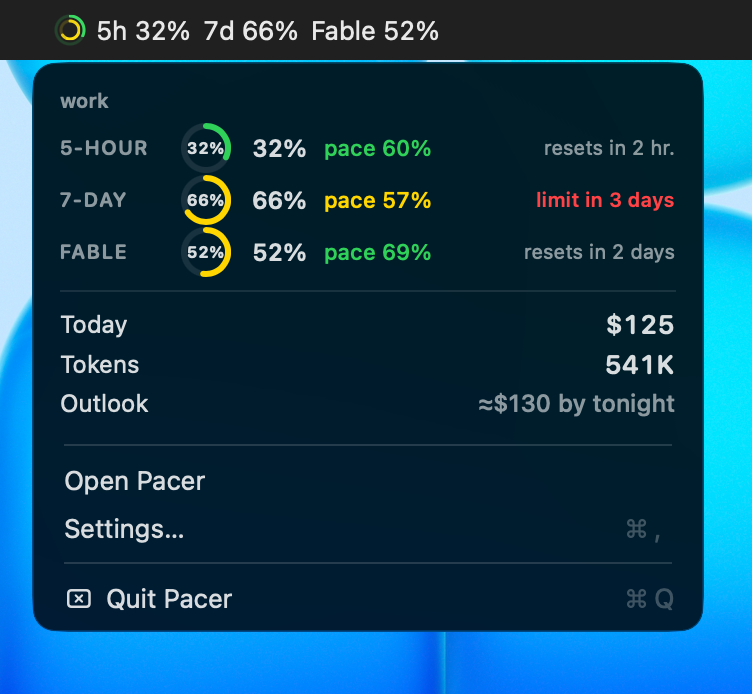
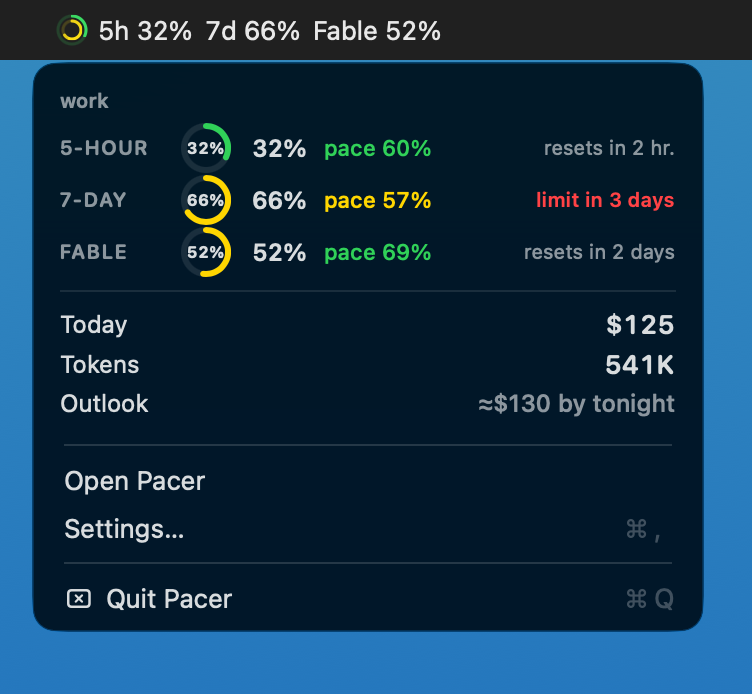
Deterministic menu bar screenshots: compare only Pacer's windows, pin the clock, own the wallpaper (#166) (#206)
* Deterministic menu bar screenshots: compare only Pacer's windows, pin the clock, own the wallpaper (#166)

* docs: regenerate README screenshots

Rendered by .github/workflows/screenshots.yml (run 37638635460) on macos-26 — the real Pacer window over synthetic data.

---------

Changed region(s): [[0.0, 0.0, 1.0, 1.0]]

diff --git a/bin/pacer-screenshot-capture.swift b/bin/pacer-screenshot-capture.swift
@@ -41,17 +41,14 @@ try? FileManager.default.createDirectory(at: dir, withIntermediateDirectories: t
 func log(_ s: String) { print("[capture] \(s)"); fflush(stdout) }
 
 var virtualDisplay: CGVirtualDisplay?
-/// The desktop picture's light and dark frames as static PNGs.
+/// The desktop picture's light and dark frames: gradients drawn here, in code.
 ///
-/// Set as-is, the picture left the menu bar shots at the mercy of the time of
-/// day: `menubar.png` and `menubar-dark.png` are the only images that show the
-/// desktop, and their wallpaper blue moved from 243 to 238 between two runs
-/// five hours apart, past `png-pixels-equal`'s tolerance, so a ready-for-review
-/// at another hour re-committed both (#166). Either the picture was dynamic on
-/// the runner, or setting it failed and the runner's own dynamic default
-/// stayed: the old code could not tell, because it swallowed the error and
-/// logged the file name either way. A static PNG of one frame, set with the
-/// error logged and the result read back, answers both.
+/// The menu bar shots are the only images that show the desktop, and a system
+/// picture ("Mac Blue") drifted between runs hours apart — thin bright edges up
+/// to 143 levels off, ~66k pixels — even pinned to one static frame (#166, #175).
+/// A picture we draw has no detail to shift, and cannot change with the runner
+/// image or macOS version. Its colours are Mac Blue's, sampled down the strip
+/// the menu panel blurs, so the panel's tint stays what the README had.
 var wallpaperFrames: (light: URL, dark: URL)?
 if wantsVirtualDisplay {
     guard ProcessInfo.processInfo.environment["CI"] == "true" else {
@@ -87,12 +84,8 @@ if wantsVirtualDisplay {
         log("mirror \(previousMain) of \(display.displayID): \(err.rawValue); main now \(CGMainDisplayID())")
     }
     try? await Task.sleep(for: .seconds(1))
-    let pictures = "/System/Library/Desktop Pictures"
-    if let picture = ((try? FileManager.default.contentsOfDirectory(atPath: pictures)) ?? [])
-        .sorted().first(where: { $0.hasSuffix(".heic") || $0.hasSuffix(".jpg") || $0.hasSuffix(".png") }) {
-        wallpaperFrames = staticFrames(of: URL(fileURLWithPath: "\(pictures)/\(picture)"), into: dir)
-        pinWallpaper(dark: false)
-    }
+    wallpaperFrames = generatedFrames(into: dir)
+    pinWallpaper(dark: false)
     try? await Task.sleep(for: .seconds(2))   // the wallpaper paints asynchronously
     try? "\(display.displayID)".write(to: dir.appendingPathComponent("display"), atomically: true, encoding: .utf8)
     log("virtual display \(display.displayID): 1600×1200 pt @2×, main")
@@ -100,46 +93,33 @@ if wantsVirtualDisplay {
 
 // MARK: - Wallpaper (CI only)
 
-
-/// Rasterise the picture's light and dark frames. A dynamic HEIC names them in
-/// its `apple_desktop` metadata (`apr`, or the `ap` entry of `solar`/`h24`);
-/// anything else uses its first frame for both.
-func staticFrames(of picture: URL, into dir: URL) -> (light: URL, dark: URL)? {
-    guard let source = CGImageSourceCreateWithURL(picture as CFURL, nil) else {
-        log("wallpaper: cannot read \(picture.lastPathComponent)"); return nil
-    }
-    let count = CGImageSourceGetCount(source)
-    var light = 0, dark = 0, origin = "single frame"
-    if count > 1 {
-        (light, dark, origin) = (0, count - 1, "first/last frame")
-        if let meta = CGImageSourceCopyMetadataAtIndex(source, 0, nil) {
-            for key in ["apr", "solar", "h24"] {
-                guard let tag = CGImageMetadataCopyTagWithPath(meta, nil, "apple_desktop:\(key)" as CFString),
-                      let encoded = CGImageMetadataTagCopyValue(tag) as? String,
-                      let data = Data(base64Encoded: encoded),
-                      let plist = (try? PropertyListSerialization.propertyList(from: data, format: nil))
-                          as? [String: Any]
-                else { continue }
-                let pair = (plist["ap"] as? [String: Any]) ?? plist
-                if let l = pair["l"] as? Int, let d = pair["d"] as? Int, l < count, d < count {
-                    (light, dark, origin) = (l, d, "apple_desktop:\(key)")
-                    break
-                }
-            }
-        }
-    }
-    func write(_ index: Int, _ name: String) -> URL? {
-        guard let image = CGImageSourceCreateImageAtIndex(source, index, nil) else { return nil }
+/// Two vertical gradients, 3200×2400 px (the virtual display at 2×).
+///
+/// Smooth on purpose: the panel and bar are translucent, so any fine detail
+/// behind them is detail in the shot. The ramp is the colour of Mac Blue at the
+/// top-left of the display, where the menu hangs, continued down the display.
+func generatedFrames(into dir: URL) -> (light: URL, dark: URL)? {
+    func make(_ name: String, top: [CGFloat], bottom: [CGFloat]) -> URL? {
+        let space = CGColorSpace(name: CGColorSpace.sRGB)!
+        guard let ctx = CGContext(data: nil, width: 3200, height: 2400, bitsPerComponent: 8, bytesPerRow: 0,
+                                  space: space, bitmapInfo: CGImageAlphaInfo.noneSkipLast.rawValue),
+              let gradient = CGGradient(colorSpace: space, colorComponents: top + [1] + bottom + [1],
+                                        locations: [0, 1], count: 2)
+        else { return nil }
+        // CoreGraphics' origin is bottom-left: start at the top of the image.
+        ctx.drawLinearGradient(gradient, start: CGPoint(x: 0, y: 2400), end: .zero, options: [])
+        guard let image = ctx.makeImage() else { return nil }
         let url = dir.appendingPathComponent(name)
         guard let dest = CGImageDestinationCreateWithURL(url as CFURL, "public.png" as CFString, 1, nil)
         else { return nil }
         CGImageDestinationAddImage(dest, image, nil)
         return CGImageDestinationFinalize(dest) ? url : nil
     }
-    guard let l = write(light, "wallpaper-light.png"), let d = write(dark, "wallpaper-dark.png") else {
-        log("wallpaper: could not write frames of \(picture.lastPathComponent)"); return nil
-    }
-    log("wallpaper: \(picture.lastPathComponent), \(count) frame(s), light=\(light) dark=\(dark) (\(origin))")
+    func rgb(_ r: Double, _ g: Double, _ b: Double) -> [CGFloat] { [r / 255, g / 255, b / 255] }
+    guard let l = make("wallpaper-light.png", top: rgb(70, 185, 246), bottom: rgb(0, 100, 242)),
+          let d = make("wallpaper-dark.png", top: rgb(52, 138, 190), bottom: rgb(0, 74, 188))
+    else { log("wallpaper: could not draw the gradients"); return nil }
+    log("wallpaper: drew light and dark gradients")
     return (l, d)
 }
 
@@ -224,8 +204,14 @@ func captureMenuBar(_ request: Request) async throws {
     guard ProcessInfo.processInfo.environment["CI"] == "true" else { throw fail("menubar: CI only") }
     guard let r = request.rect, r.count == 4, let png = request.png else { throw fail("menubar: rect and png required") }
     let rect = CGRect(x: r[0], y: r[1], width: r[2], height: r[3])
-    // The menu opens just after the request is written; let it finish animating.
-    try await Task.sleep(for: .milliseconds(1200))
+    // The menu bar's clock reads 9:41 — Apple's own screenshot time — so its
+    // width cannot move the items beside it. Put back before anything else
+    // needs a true clock (TLS, git), even if this throws.
+    pinSystemClock()
+    defer { restoreSystemClock() }
+    // The menu opens just after the request is written; let it finish animating,
+    // and the bar redraw its clock.
+    try await Task.sleep(for: .milliseconds(3500))
     let content = try await SCShareableContent.excludingDesktopWindows(false, onScreenWindowsOnly: true)
     guard let display = content.displays.first(where: { $0.frame.intersects(rect) }) else {
         throw fail("menubar: no display holds \(rect)")
@@ -268,8 +254,83 @@ func captureMenuBar(_ request: Request) async throws {
     guard let data = NSBitmapImageRep(cgImage: image).representation(using: .png, properties: [:]) else {
         throw fail("menubar: PNG encoding failed")
     }
+    // Pacer's own windows, for the workflow's comparison: the shot's wallpaper
+    // and the bar around the item are not Pacer's to keep. The status item is
+    // found by its title, the menu (and any tooltip) as the popup-level windows
+    // on this display. Written BEFORE the PNG: the PNG landing is what closes
+    // the menu, and what the app waits for.
+    let popUpLevel = Int(CGWindowLevelForKey(.popUpMenuWindow))
+    let ours = content.windows.filter { w in
+        guard w.frame.intersects(rect), w.frame.width < display.frame.width * 0.9 else { return false }
+        let pacer = w.owningApplication?.bundleIdentifier == "com.ericandrechek.pacer"
+            || (w.title ?? "").hasPrefix("com.ericandrechek.pacer")
+        return pacer || (w.windowLayer >= popUpLevel && !others.contains { $0.windowID == w.windowID })
+    }
+    for w in content.windows where w.frame.intersects(rect) {
+        log("menubar: window \(w.owningApplication?.bundleIdentifier ?? "-") '\(w.title ?? "")'"
+            + " layer \(w.windowLayer) \(w.frame)\(ours.contains { $0.windowID == w.windowID } ? " [Pacer UI]" : "")")
+    }
+    writeRectsSidecar(for: png, windows: ours.map(\.frame), origin: rect.origin, scale: scale,
+                      size: CGSize(width: image.width, height: image.height))
     try data.write(to: URL(fileURLWithPath: png))
     log("✓ \(URL(fileURLWithPath: png).lastPathComponent) (\(image.width)×\(image.height), menu bar)")
+}
+
+/// `<name>.rects.json` in $PACER_SCREENSHOT_SIDECARS: `{"rects": [[x, y, w, h], …]}`,
+/// image pixels, top-left origin — where Pacer's windows are in the PNG, which
+/// `png-pixels-equal` compares instead of the whole image. Not under
+/// docs/screenshots: they are not README assets. No windows found writes
+/// nothing, so the comparison falls back to the whole image.
+func writeRectsSidecar(for png: String, windows: [CGRect], origin: CGPoint, scale: Double, size: CGSize) {
+    guard let out = ProcessInfo.processInfo.environment["PACER_SCREENSHOT_SIDECARS"], !out.isEmpty else { return }
+    let bounds = CGRect(origin: .zero, size: size)
+    let rects = windows.map {
+        CGRect(x: ($0.minX - origin.x) * scale, y: ($0.minY - origin.y) * scale,
+               width: $0.width * scale, height: $0.height * scale).integral.intersection(bounds)
+    }.filter { !$0.isNull && $0.width > 0 && $0.height > 0 }
+    let name = URL(fileURLWithPath: png).deletingPathExtension().lastPathComponent
+    let url = URL(fileURLWithPath: out).appendingPathComponent("\(name).rects.json")
+    try? FileManager.default.createDirectory(at: url.deletingLastPathComponent(), withIntermediateDirectories: true)
+    guard !rects.isEmpty,
+          let data = try? JSONSerialization.data(withJSONObject: ["rects": rects.map {
+              [Int($0.minX), Int($0.minY), Int($0.width), Int($0.height)] }])
+    else { log("menubar: no Pacer windows found — \(name) will be compared whole"); return }
+    try? data.write(to: url)
+    log("menubar: \(rects.count) Pacer window rect(s) → \(url.lastPathComponent)")
+}
+
+// MARK: - System clock (CI only)
+
+var clockSaved: (wall: Date, uptime: TimeInterval)?
+
+func sudo(_ args: [String]) -> Bool {
+    let p = Process()
+    p.executableURL = URL(fileURLWithPath: "/usr/bin/sudo")
+    p.arguments = ["-n"] + args
+    do { try p.run() } catch { return false }
+    p.waitUntilExit()
+    return p.terminationStatus == 0
+}
+
+/// Fri 2026-09-18 09:41 in the runner's own zone (`ScreenshotClock`'s date, so
+/// nothing in the shot says another day). CI only: it sets the machine's clock.
+func pinSystemClock() {
+    guard ProcessInfo.processInfo.environment["CI"] == "true", clockSaved == nil else { return }
+    clockSaved = (Date(), ProcessInfo.processInfo.systemUptime)
+    log("clock: pinning to 2026-09-18 09:41 (\(sudo(["date", "0918094126"]) ? "ok" : "FAILED"))")
+}
+
+/// Real time back: the instant saved plus the monotonic time since, so the
+/// pinned stretch costs no drift. The workflow also runs an NTP sync after the
+/// render, whatever happened here.
+func restoreSystemClock() {
+    guard let saved = clockSaved else { return }
+    clockSaved = nil
+    let now = saved.wall.addingTimeInterval(ProcessInfo.processInfo.systemUptime - saved.uptime)
+    let f = DateFormatter()
+    f.dateFormat = "MMddHHmmyy.ss"
+    f.locale = Locale(identifier: "en_US_POSIX")
+    log("clock: restoring (\(sudo(["date", f.string(from: now)]) ? "ok" : "FAILED"))")
 }
 
 func capture(_ request: Request) async throws {

diff --git a/bin/png-pixels-equal.swift b/bin/png-pixels-equal.swift
@@ -1,7 +1,16 @@
 // png-pixels-equal — do two images have exactly the same pixels?
 //
 //   swiftc -O -o png-pixels-equal bin/png-pixels-equal.swift
-//   png-pixels-equal a.png b.png     # exit 0: same pixels, 1: they differ, 2: unreadable
+//   png-pixels-equal a.png b.png [rects.json]
+//       # exit 0: same pixels, 1: they differ, 2: unreadable
+//
+// With a rects.json (`{"rects": [[x, y, w, h], …]}`, image pixels, top-left
+// origin — written by pacer-screenshot-capture beside a menu bar shot), only
+// the pixels inside those rectangles are compared: Pacer's own windows. The
+// desktop behind a translucent menu is not ours and drifted between runs
+// hours apart (#166); the rectangles are the windows' frames, so what the
+// window draws of the desktop through itself is still compared. Sizes must
+// still match. Without a sidecar, or an unreadable one, the whole image.
 //
 // Used by .github/workflows/screenshots.yml to drop re-rendered README images
 // whose pixels did not change. A render re-encodes every image, so an
@@ -40,26 +49,43 @@ func pixels(of path: String) -> (width: Int, height: Int, bytes: Data)? {
 
 let tolerance: UInt8 = 2
 
-func samePixels(_ a: Data, _ b: Data) -> Bool {
+func samePixels(_ a: Data, _ b: Data, width: Int, height: Int, rects: [CGRect]?) -> Bool {
     guard a.count == b.count else { return false }
+    let regions = rects ?? [CGRect(x: 0, y: 0, width: width, height: height)]
     return a.withUnsafeBytes { pa in
         b.withUnsafeBytes { pb in
-            for i in 0..<pa.count {
-                let x = pa[i], y = pb[i]
-                if (x > y ? x - y : y - x) > tolerance { return false }
+            for r in regions {
+                let x0 = max(0, Int(r.minX)), x1 = min(width, Int(r.maxX))
+                let y0 = max(0, Int(r.minY)), y1 = min(height, Int(r.maxY))
+                guard x0 < x1, y0 < y1 else { continue }
+                for y in y0..<y1 {
+                    for i in (y * width + x0) * 4..<(y * width + x1) * 4 {
+                        let x = pa[i], y = pb[i]
+                        if (x > y ? x - y : y - x) > tolerance { return false }
+                    }
+                }
             }
             return true
         }
     }
 }
 
+func sidecarRects(_ path: String) -> [CGRect]? {
+    guard let data = FileManager.default.contents(atPath: path),
+          let json = try? JSONSerialization.jsonObject(with: data) as? [String: Any],
+          let list = json["rects"] as? [[Double]], !list.isEmpty else { return nil }
+    return list.compactMap { $0.count == 4 ? CGRect(x: $0[0], y: $0[1], width: $0[2], height: $0[3]) : nil }
+}
+
 let args = Array(CommandLine.arguments.dropFirst())
-guard args.count == 2 else {
-    FileHandle.standardError.write(Data("usage: png-pixels-equal <a.png> <b.png>\n".utf8))
+guard args.count == 2 || args.count == 3 else {
+    FileHandle.standardError.write(Data("usage: png-pixels-equal <a.png> <b.png> [rects.json]\n".utf8))
     exit(2)
 }
 guard let a = pixels(of: args[0]), let b = pixels(of: args[1]) else {
     FileHandle.standardError.write(Data("png-pixels-equal: cannot read \(args[0]) or \(args[1])\n".utf8))
     exit(2)
 }
-exit(a.width == b.width && a.height == b.height && samePixels(a.bytes, b.bytes) ? 0 : 1)
+let rects = args.count == 3 ? sidecarRects(args[2]) : nil
+exit(a.width == b.width && a.height == b.height
+    && samePixels(a.bytes, b.bytes, width: a.width, height: a.height, rects: rects) ? 0 : 1)

diff --git a/docs/screenshots.md b/docs/screenshots.md
@@ -132,11 +132,20 @@ When that flag is set, `PacerAppDelegate` takes a separate path:
   - **Menu bar:** only Pacer's item is in the bar. On macOS 26 Control Center
     owns every status item, so Pacer's is picked out by its window title.
   - **Wallpaper:** the two menu bar shots are the only ones that show the
-    desktop. On CI the helper rasterises the picture's light and dark frames to
-    static PNGs, sets the matching one on every screen with each appearance
-    change, and logs what took. Set as a file, the desktop followed the
-    runner's time of day, and those two images re-committed at a different
-    hour.
+    desktop. On CI the helper draws two vertical gradients in code (light and
+    dark, Mac Blue's colours) and sets the matching one on every screen with
+    each appearance change. Mac Blue itself, even pinned to one static frame,
+    came out ~66k pixels different (up to 143 levels, thin edges) between runs
+    hours apart.
+  - **System clock:** while the menu bar is photographed the runner's clock is
+    set to Fri 2026-09-18 09:41, so the bar's clock text cannot move the items
+    beside it. The helper puts real time back right after (and the workflow
+    runs an NTP sync as a safety net before any push).
+  - **What is compared:** the helper writes `<shot>.rects.json` (Pacer's status
+    item, menu and any tooltip window, in image pixels) to
+    `$PACER_SCREENSHOT_SIDECARS` (the runner's temp dir, not docs/), and
+    `png-pixels-equal` compares only inside those rectangles. Without a sidecar
+    it compares the whole image.
   - **Noise:** `png-pixels-equal` tolerates up to 2 levels (of 255) per
     channel, for translucent materials that come out 1–2 levels apart between
     identical runs. There is no threshold on how many pixels differ, because a
